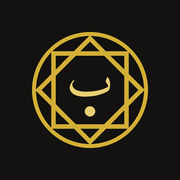
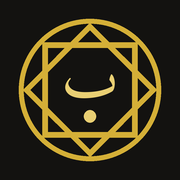
feat: [Q-Basair-project-thread-le31qa] - Uniformise la barre d'onglets en or et épure l'accueil
- The phone tab bar's active pill is always gold (it no longer takes the
  page's world tint, which left it teal on search, study and notebook).
- The Home tab is the app's logo, without a label.
- Home drops the logo and name at the top; the greeting and date move up
  beside the account button.
- The launcher icons draw the logo larger (86% of the square instead of
  70%; maskable 72%, Android adaptive 61%), regenerated with make_icons.py.

Claude-Session: https://claude.ai/code/session_01SJut324jjd5r1TYMgsvfjy

Changed region(s): [[0.0833, 0.0833, 0.9167, 0.9167], [0.3611, 0.4167, 0.6389, 0.5556]]

diff --git a/apps/web/features/shell/mobile-tab-bar.tsx b/apps/web/features/shell/mobile-tab-bar.tsx
@@ -4,6 +4,7 @@ import "./mobile-tab-bar.css";
 
 import { useEffect } from "react";
 
+import { BrandMark } from "@/components/brand-mark";
 import { Icon } from "@/components/icon";
 
 import { useShellMode } from "./mode-context";
@@ -18,9 +19,9 @@ import { t } from "@/lib/i18n";
  * current tab scrolls back to the top. Hidden on desktop (the rail lists
  * every destination there).
  *
- * The index and saved pages are one tap from Home and the reader's surah
- * name; community from Home. The active pill takes the page's world tint
- * (the rail, mounted on every screen size, runs useWorldSync).
+ * Home is the app's logo, without a label. The index and saved pages are
+ * one tap from Home and the reader's surah name; community from Home. The
+ * active pill is always gold.
  *
  * It also tracks the on-screen keyboard (`html[data-kb]`, `--qb-kb`): the bar
  * steps aside while a field is typed into, and the bottom search bar rides on
@@ -35,12 +36,14 @@ export function MobileTabBar() {
     <nav className="qb-tabbar qb-stable-tabbar" aria-label={t("التنقل")}>
       {PHONE_TABS.map((item) => {
         const current = item.owns.includes(mode);
+        const brand = item.id === "home";
         return (
           <button
             key={item.id}
             type="button"
-            className={`qb-stab${current ? " active" : ""}`}
+            className={`qb-stab${brand ? " brand" : ""}${current ? " active" : ""}`}
             aria-current={current ? "page" : undefined}
+            aria-label={brand ? item.label : undefined}
             onClick={() => {
               if (current && item.mode === mode) {
                 // A second tap on the current tab: back to its top.
@@ -51,9 +54,9 @@ export function MobileTabBar() {
             }}
           >
             <span className="pill" aria-hidden="true">
-              <Icon name={item.icon} size={22} stroke={current ? 2.1 : 1.7} />
+              {brand ? <BrandMark size={34} themed /> : <Icon name={item.icon} size={22} stroke={current ? 2.1 : 1.7} />}
             </span>
-            <span className="label">{item.label}</span>
+            {brand ? null : <span className="label">{item.label}</span>}
           </button>
         );
       })}

diff --git a/apps/web/features/home/home.css b/apps/web/features/home/home.css
@@ -1,7 +1,7 @@
 /* =====================================================================
    Home (home-screen.tsx) — one tree, two arrangements.
 
-   Phones: the upper part is for looking (brand, greeting), the lower part
+   Phones: the upper part is for looking (the greeting), the lower part
    for acting — the actions stack from the bottom up, just above the tab
    bar, where the thumb rests (docs/mobile-ergonomics.md).
 
@@ -27,8 +27,9 @@
 
 .qb-home-top {
   display: flex;
-  align-items: center;
+  align-items: flex-start;
   justify-content: space-between;
+  gap: 12px;
   min-height: 48px;
 }
 
@@ -47,7 +48,7 @@
 .qb-home-greeting {
   display: grid;
   gap: 2px;
-  margin-top: 8px;
+  min-width: 0;
 }
 
 .qb-home-greeting h1 {
@@ -261,32 +262,6 @@
   flex-shrink: 0;
 }
 
-/* ---------- Brand ---------- */
-
-.qb-brandmini {
-  display: inline-flex;
-  align-items: center;
-  gap: 7px;
-}
-
-.qb-brandmini .bname {
-  padding: 0 2px 4px;
-  margin-bottom: -4px;
-  font-family: var(--font-arabic-heading);
-  font-size: 19px;
-  line-height: 1.8;
-  font-weight: 700;
-  background: linear-gradient(180deg, #f6dc86 10%, #c99a22 90%);
-  -webkit-background-clip: text;
-  background-clip: text;
-  color: transparent;
-}
-
-.light .qb-brandmini .bname,
-.light-mode .qb-brandmini .bname {
-  background-image: linear-gradient(180deg, #c49a2a 10%, #6e5208 90%);
-}
-
 /* ---------- The verse (wide screens) ---------- */
 
 .qb-home-verse {
@@ -300,8 +275,12 @@
     padding: 28px 32px 40px;
   }
 
-  /* The rail carries the account menu and the brand. */
+  /* The rail carries the account menu; the greeting stays, centred. */
   .qb-home-top {
+    display: contents;
+  }
+
+  .qb-home-account {
     display: none;
   }
 

diff --git a/apps/web/features/home/home-screen.tsx b/apps/web/features/home/home-screen.tsx
@@ -9,7 +9,6 @@ import { createPortal } from "react-dom";
 import { createQBasairApiClient } from "@q-basair/api-client";
 import type { ResearchSessionSummary } from "@q-basair/shared";
 
-import { BrandMark } from "@/components/brand-mark";
 import { Icon, type IconName } from "@/components/icon";
 import { relativeAge } from "@/features/companions/use-companions";
 import { useMushaf } from "@/features/reading/mushaf-context";
@@ -212,13 +211,13 @@ export function HomeScreen() {
 
   return (
     <div className="qb-home">
+      {/* Phones: the greeting opens the screen, beside the account button
+          (the brand is the Home tab itself). */}
       <header className="qb-home-top">
-        <span className="qb-brandmini" role="img" aria-label={t("بصائر")}>
-          <BrandMark size={30} themed />
-          <span className="bname" aria-hidden="true">
-            {t("بَصَائِر")}
-          </span>
-        </span>
+        <div className="qb-home-greeting">
+          <h1>{greeting.line}</h1>
+          {greeting.sub ? <p>{greeting.sub}</p> : null}
+        </div>
         {/* Phones only: the desktop rail carries the account menu. */}
         <button
           ref={accountBtn}
@@ -231,11 +230,6 @@ export function HomeScreen() {
           <Icon name="user" size={20} />
         </button>
       </header>
-
-      <div className="qb-home-greeting">
-        <h1>{greeting.line}</h1>
-        {greeting.sub ? <p>{greeting.sub}</p> : null}
-      </div>
 
       {/* Wide screens: the verse holds the seat of honour. No aria-live — a
           forever-rotating announcement is screen-reader noise; the verse stays

diff --git a/apps/web/features/shell/mobile-tab-bar.css b/apps/web/features/shell/mobile-tab-bar.css
@@ -32,7 +32,8 @@
 }
 
 /* The selected destination: a pill behind the icon (Material 3's active
-   indicator), in the page's world tint. */
+   indicator), always in the app's gold — the bar is one constant control,
+   it doesn't take the page's world tint. */
 .qb-stab .pill {
   display: grid;
   place-items: center;
@@ -62,16 +63,25 @@
 }
 
 .qb-stab.active {
-  color: var(--world-text, var(--gold-text));
+  color: var(--gold-text);
 }
 
 .qb-stab.active .pill {
-  background-color: var(--world-a, var(--gold-a12));
+  background-color: var(--gold-a12);
   box-shadow: var(--glass-edge);
 }
 
 .qb-stab.active .label {
   font-weight: 800;
+}
+
+/* Home is the app's own mark, without a label. */
+.qb-stab.brand .pill {
+  height: 40px;
+}
+
+.qb-stab.brand:not(.active) .pill {
+  opacity: 0.78;
 }
 
 .qb-stab:focus-visible {

diff --git a/apps/mobile/scripts/make_icons.py b/apps/mobile/scripts/make_icons.py
@@ -45,6 +45,12 @@ SQUARE_R, SQUARE_W = 41, 3.4
 GLYPH = "ٮ"  # ٮ — the dotless ب; the star's centre dot is its nuqta
 GLYPH_X, GLYPH_BASELINE, GLYPH_SIZE = 50, 55, 40
 NUQTA_X, NUQTA_Y, NUQTA_R = 50, 67, 4
+# How much of a launcher icon the logo fills: close to the edge, so it reads at
+# home-screen size (the ring is a circle, so the platform masks never clip it).
+ICON_MARK = 0.86
+# Adaptive/maskable icons are cropped to a circle of ~80% (66 of 108dp on Android).
+MASKABLE_MARK = 0.72
+ADAPTIVE_MARK = 0.61
 
 
 def square(turn: float, cx: float, cy: float, radius: float) -> list[tuple[float, float]]:
@@ -85,7 +91,7 @@ def draw_logo(image: Image.Image, x: float, y: float, side: float) -> None:
     draw.ellipse((nx - nr, ny - nr, nx + nr, ny + nr), fill=GOLD_BRIGHT)
 
 
-def render(size: int, *, background: bool, rounded: bool = False, circle: bool = False, mark: float = 0.7) -> Image.Image:
+def render(size: int, *, background: bool, rounded: bool = False, circle: bool = False, mark: float = ICON_MARK) -> Image.Image:
     """An icon: the logo filling `mark` of the square, on the dark background or transparent."""
     big = size * SCALE
     image = Image.new("RGBA", (big, big), (0, 0, 0, 0))
@@ -122,7 +128,7 @@ def icon_svg(path: str) -> str:
     return (
         '<svg xmlns="http://www.w3.org/2000/svg" viewBox="0 0 100 100">'
         '<rect width="100" height="100" rx="22" fill="#131210"/>'
-        '<g transform="translate(15 15) scale(0.7)">'
+        f'<g transform="translate({50 - 50 * ICON_MARK:g} {50 - 50 * ICON_MARK:g}) scale({ICON_MARK:g})">'
         f'<g fill="none" stroke="#d4af37"><circle cx="50" cy="50" r="{RING_R}" stroke-width="{RING_W}"/>'
         f'<g stroke-width="{SQUARE_W}" stroke-linejoin="miter">{squares}</g></g>'
         f'<path d="{path}" fill="#e9cf73"/><circle cx="{NUQTA_X}" cy="{NUQTA_Y}" r="{NUQTA_R}" fill="#e9cf73"/>'
@@ -148,7 +154,7 @@ def main() -> None:
     render(180, background=True).convert("RGB").save(public / "apple-touch-icon-precomposed.png")
     render(192, background=True, rounded=True).save(public / "icon-192.png")
     render(512, background=True, rounded=True).save(public / "icon-512.png")
-    render(512, background=True, mark=0.56).convert("RGB").save(public / "icon-maskable-512.png")
+    render(512, background=True, mark=MASKABLE_MARK).convert("RGB").save(public / "icon-maskable-512.png")
     favicon = render(256, background=True, rounded=True, mark=0.82)
     favicon.save(public / "favicon.ico", sizes=[(16, 16), (32, 32), (48, 48), (64, 64)])
     (public / "icon.svg").write_text(icon_svg(path), encoding="utf-8")
@@ -162,7 +168,7 @@ def main() -> None:
             render(legacy, background=True, rounded=True).save(folder / "ic_launcher.png")
             render(legacy, background=True, circle=True).save(folder / "ic_launcher_round.png")
             # Adaptive foreground: 108dp canvas, the mark inside the 66dp safe zone.
-            render(round(108 * factor), background=False, mark=0.56).save(folder / "ic_launcher_foreground.png")
+            render(round(108 * factor), background=False, mark=ADAPTIVE_MARK).save(folder / "ic_launcher_foreground.png")
 
         (RES / "values" / "ic_launcher_background.xml").write_text(
             '<?xml version="1.0" encoding="utf-8"?>\n<resources>\n    <color name="ic_launcher_background">#131210</color>\n</resources>\n',

diff --git a/docs/mobile-ergonomics.md b/docs/mobile-ergonomics.md
@@ -37,8 +37,8 @@ page and the worlds coin are gone.
 
 | Change | Before | After | Grounded in |
 |---|---|---|---|
-| **Stable five-tab bar** (`features/shell/mobile-tab-bar.tsx`) | The worlds coin: one button that fans out and changes the tabs under the thumb per world; six of nine pages behind a tap. | Home · المصحف · البحث · الدراسة · الدفتر, always in the same place, icon + label, active pill in the world tint. A second tap on the current tab scrolls back to the top. The bar steps aside while the keyboard is open. | R6, R7, R8, R9, R12 |
-| **Home in the thumb zone** (`features/home/home-screen.tsx`) | Greeting and cards from the top down; actions spread across the screen. | The upper part is for looking (greeting). The actions stack from the bottom up: continue reading (one primary gold button), four labelled shortcuts (index, saved pages, study, community), and the search field last, closest to the thumb. | R1, R2, R4, R12 |
+| **Stable five-tab bar** (`features/shell/mobile-tab-bar.tsx`) | The worlds coin: one button that fans out and changes the tabs under the thumb per world; six of nine pages behind a tap. | Home · المصحف · البحث · الدراسة · الدفتر, always in the same place, icon + label (Home is the app's logo, unlabelled: the one icon everyone already knows), active pill always gold. A second tap on the current tab scrolls back to the top. The bar steps aside while the keyboard is open. | R6, R7, R8, R9, R12 |
+| **Home in the thumb zone** (`features/home/home-screen.tsx`) | Greeting and cards from the top down; actions spread across the screen. | The upper part is for looking: the greeting and date open the screen, beside the account button (the brand is the Home tab). The actions stack from the bottom up: continue reading (one primary gold button), four labelled shortcuts (index, saved pages, study, community), and the search field last, closest to the thumb. | R1, R2, R4, R12 |
 | **Reader controls at the bottom** (`phone-ergonomics.css`, reader section) | The reader's bar sat at the top; its icons were unlabelled and some were under 44px. | The page fills the top; the bar sits under it at 56px with 48×48 labelled actions (تلاوة, عرض…). The surah name opens the index (with a chevron). The display strip opens upward. | R2, R3, R4, R8, R10 |
 | **Swipe settles into the page** (`mushaf-stage.tsx`) | After swiping, the chrome stayed. | A page swipe on a phone enters the immersive view (the page alone, with a small "صفحة ٣" pill); a tap brings the chrome back. | R3, R4 |
 | **Search field at the bottom** | The field was at the top of the search screen; suggestions opened downward. | The field floats just above the tab bar and rides on the keyboard when typing (`visualViewport`); suggestions open upward with 48px rows. Results summary keeps two 44px actions and drops the decorative header. | R2, R5, R10 |
